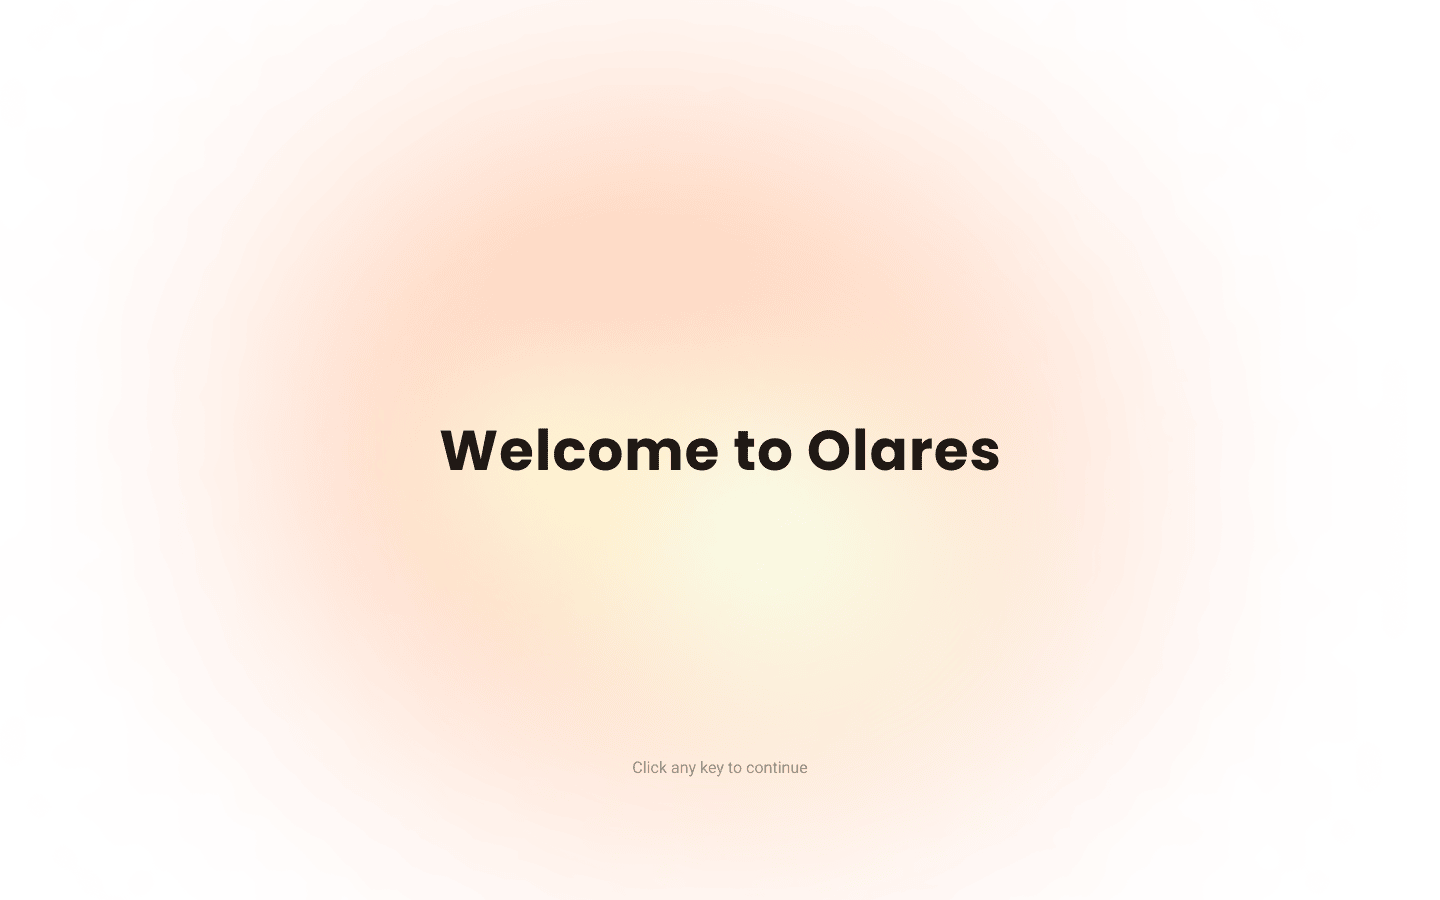
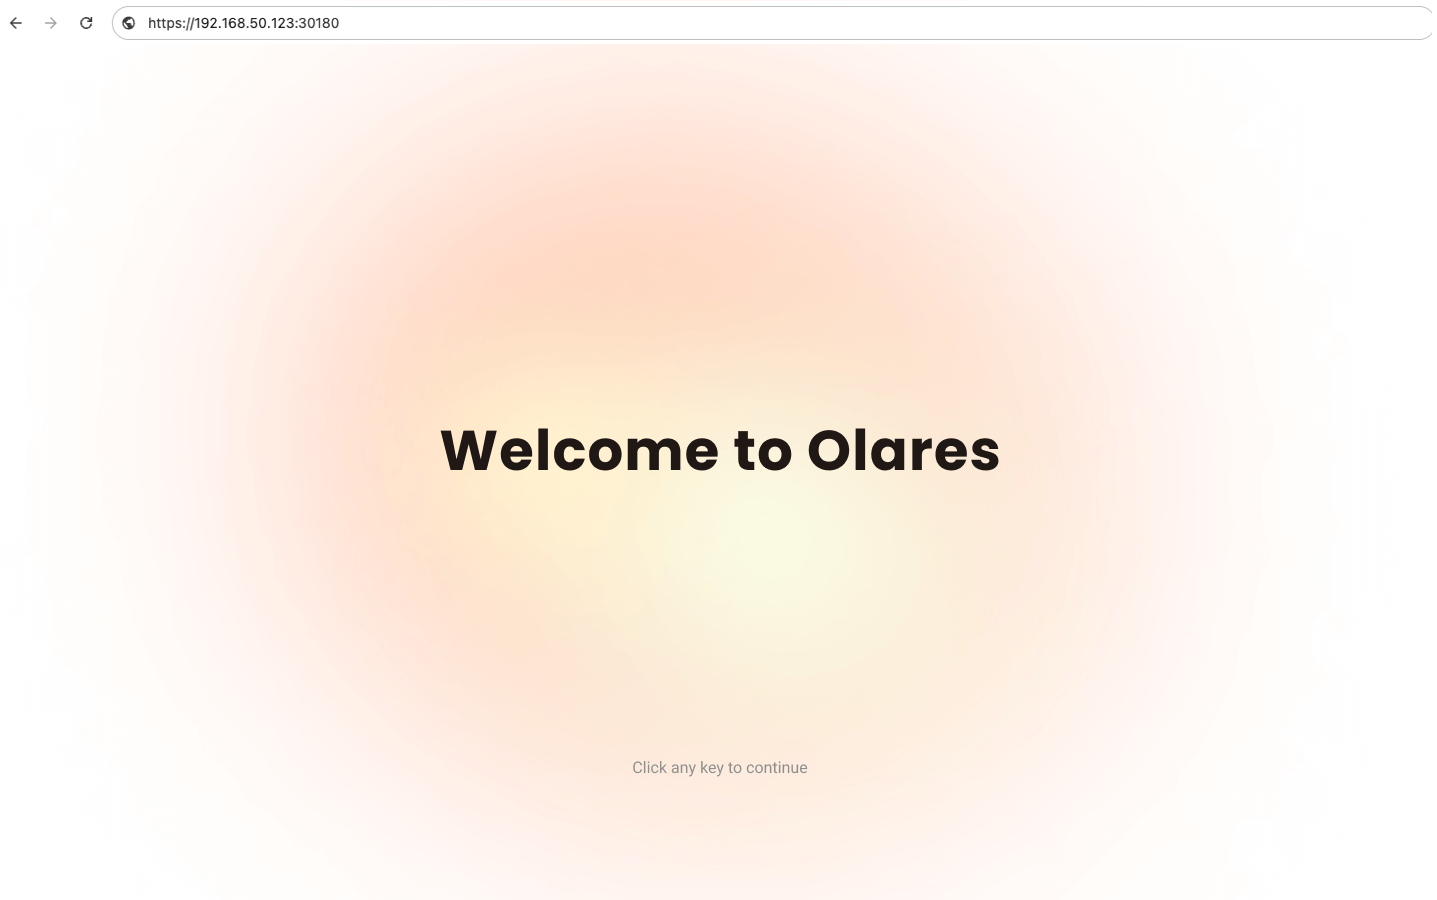
docs: update screenshots for install wizards and login (#1600)
* docs: update screenshots for install wizards and login

* optimize images

Changed region(s): [[0.3062, 0.4667, 0.7042, 0.5289], [0.0612, 0.0, 0.245, 0.0311], [0.4287, 0.84, 0.5511, 0.8711]]

diff --git a/docs/manual/get-started/install-olares.md b/docs/manual/get-started/install-olares.md
@@ -38,10 +38,10 @@ While these specific versions are confirmed to work, the process may still work 
 
 In your terminal, run the following command:
 
-<!--@include: ./reusables.md{4,33}-->
+<!--@include: ./reusables.md{4,36}-->
 
 <!--@include: ./activate-olares.md-->
 
 <!--@include: ./log-in-to-olares.md-->
 
-<!--@include: ./reusables.md{35,39}-->
+<!--@include: ./reusables.md{38,42}-->

diff --git a/docs/manual/get-started/log-in-to-olares.md b/docs/manual/get-started/log-in-to-olares.md
@@ -3,7 +3,7 @@ search: false
 ---
 ## Log in to Olares
 
-1. Enter the Olares desktop address in your browser, and press any key to continue.
+1. Enter the Olares desktop address (`https://desktop.{olares-id}.olares.com`) in your browser, and press any key to continue.
 2. On the login page, enter your Olares login password.
 
    ![Log in](/images/manual/get-started/log-in.png#bordered)

diff --git a/docs/zh/manual/get-started/install-olares.md b/docs/zh/manual/get-started/install-olares.md
@@ -33,10 +33,10 @@ description: 在 Linux 系统上通过一键脚本，快速上手 Olares。
 
 在 Linux 命令行中，执行以下命令：
 
-<!--@include: ./reusables.md{4,28}-->
+<!--@include: ./reusables.md{4,32}-->
 
 <!--@include: ./activate-olares.md-->
 
 <!--@include: ./log-in-to-olares.md-->
 
-<!--@include: ./reusables.md{30,34}-->
+<!--@include: ./reusables.md{34,38}-->
